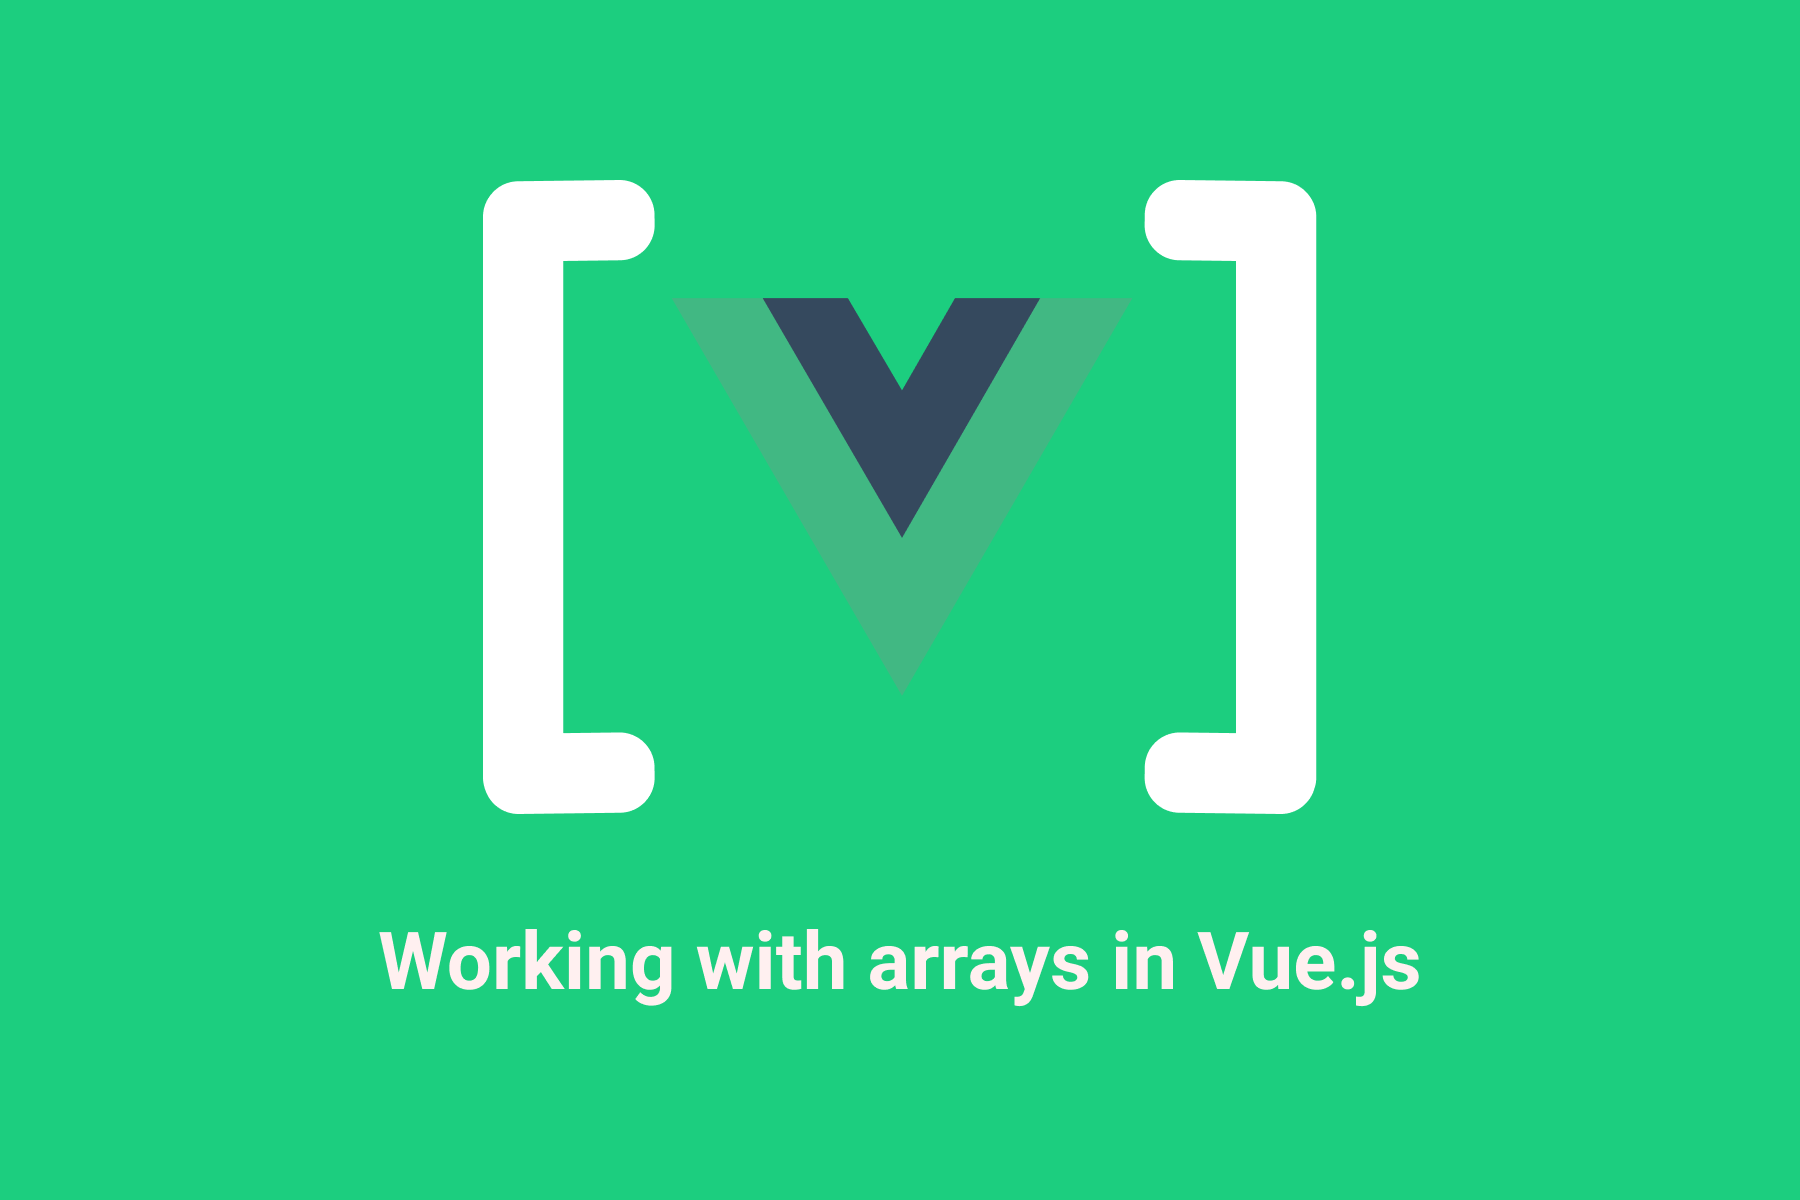
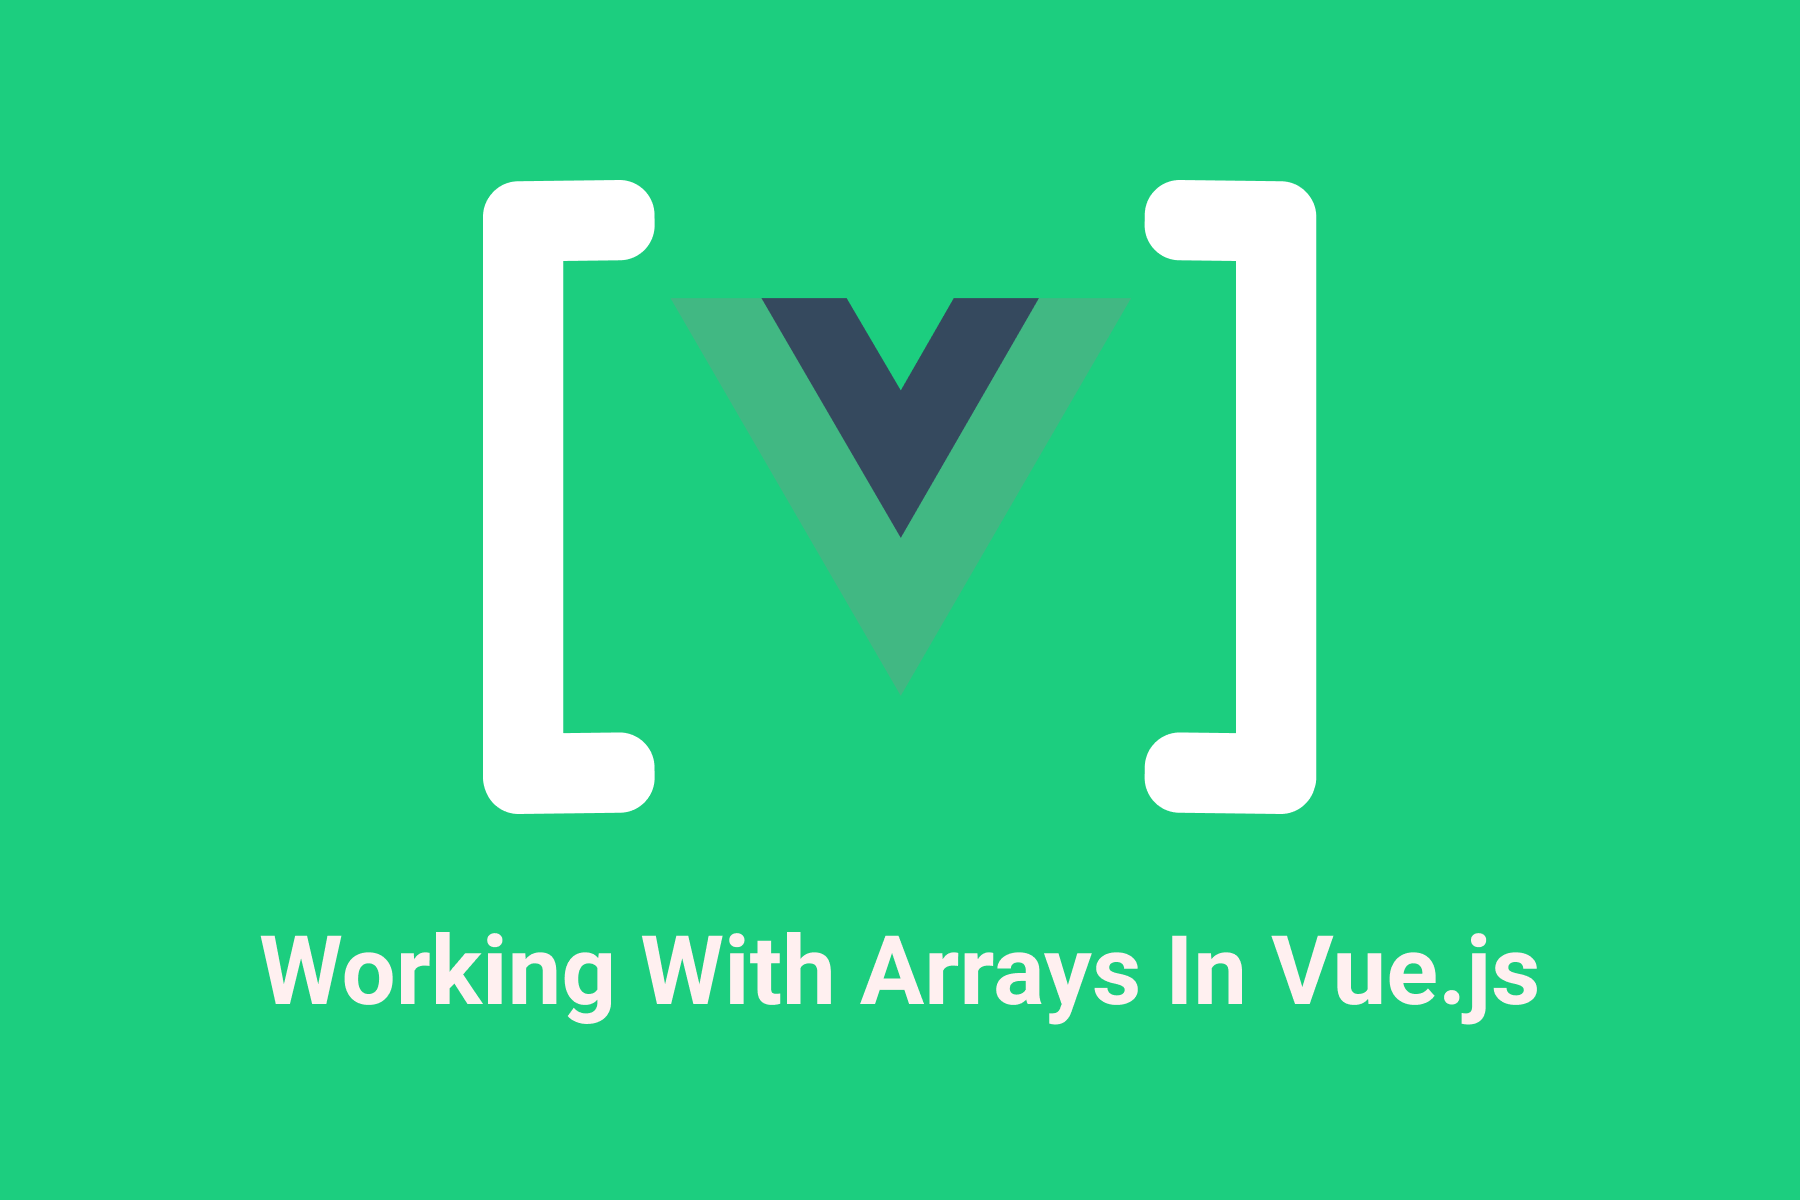
Added projects

Changed region(s): [[0.1244, 0.7708, 0.8711, 0.8633]]

diff --git a/pages/index.vue b/pages/index.vue
@@ -1,9 +1,9 @@
 <template>
-  <v-container>
+  <v-container id="container">
     <v-row>
       <h1 id="main-title">My Projects</h1>
     </v-row>
-    <v-row justify="center" align="center">
+    <v-row id="item-row" justify="center" align="center">
       <v-col v-for="item in items" :key="item.title" cols="12" sm="8" md="4">
         <v-hover>
           <template v-slot:default="{ hover }">
@@ -13,7 +13,11 @@
               <v-card-subtitle>{{ item.subtitle }}</v-card-subtitle>
               <v-fade-transition>
                 <v-overlay v-if="hover" absolute color="#750999">
-                  <v-btn>Read Article</v-btn>
+                  <v-btn v-if="item.type === 'Article'">Read Article</v-btn>
+                  <span v-else class="button-span">
+                    <v-btn class="button">Learn More</v-btn>
+                    <v-btn class="button">Visit Site</v-btn>
+                  </span>
                 </v-overlay>
               </v-fade-transition>
             </v-card>
@@ -30,21 +34,28 @@ export default {
     return {
       items: [
         {
-          title: 'Working with arrays in Vue.js',
+          title: 'Train That Brain',
+          type: 'Web App',
+          subtitle: 'Learning App For Autodidacts',
+          image: 'ttb-cover.png',
+        },
+        {
+          title: 'Working With Arrays In Vue.js',
           type: 'Article',
-          subtitle: 'Description',
+          subtitle: 'Medium Article',
           image: 'vue-array-article-cover.png',
+          buttonText: 'Read Article',
         },
         {
           title: 'Working With CSV Files',
           type: 'Article',
-          subtitle: 'Description',
+          subtitle: 'Medium Article',
           image: 'csv-article-cover.png',
         },
         {
           title: 'Netlify Environment Variables',
           type: 'Article',
-          subtitle: 'Description',
+          subtitle: 'Medium Article',
           image: 'environment-variables-article-cover.png',
         },
       ],
@@ -54,7 +65,12 @@ export default {
 </script>
 
 <style lang="scss" scoped>
+#container {
+  max-width: 90vw;
+}
 #item-card {
+  min-height: 300px;
+  border-radius: 10px;
   transition: all 300ms;
   &:hover {
     transform: translateY(-3px);
@@ -66,6 +82,22 @@ export default {
 }
 
 .card-title {
+  word-break: break-word;
   font-weight: 600;
+  @media screen and (max-width: 1500px) {
+    font-size: 18px;
+  }
+  @media screen and (max-width: 1200px) {
+    font-size: 16px;
+  }
+}
+
+.button-span {
+  display: flex;
+  flex-direction: column;
+}
+
+.button {
+  margin: 10px;
 }
 </style>

diff --git a/layouts/default.vue b/layouts/default.vue
@@ -1,6 +1,13 @@
 <template>
   <v-app dark>
-    <v-navigation-drawer mini-variant fixed app floating color="primary">
+    <v-navigation-drawer
+      mini-variant
+      fixed
+      app
+      floating
+      color="primary"
+      mini-variant-width="80"
+    >
       <v-list>
         <v-tooltip
           v-for="(item, i) in items"
@@ -18,7 +25,7 @@
               v-on="on"
             >
               <v-list-item-action class="list-item-action">
-                <v-icon class="icon">{{ item.icon }}</v-icon>
+                <v-icon class="icon" size="30">{{ item.icon }}</v-icon>
               </v-list-item-action>
               <v-list-item-content>
                 <v-list-item-title v-text="item.title" />
@@ -46,7 +53,7 @@
                 v-on="on"
               >
                 <v-list-item-action class="list-item-action">
-                  <v-icon class="icon">{{ social.icon }}</v-icon>
+                  <v-icon class="icon" size="25">{{ social.icon }}</v-icon>
                 </v-list-item-action>
                 <v-list-item-content>
                   <v-list-item-title v-text="social.title" />
@@ -58,7 +65,7 @@
         </v-list>
       </template>
     </v-navigation-drawer>
-    <v-main class="secondary">
+    <v-main class="secondary" id="main">
       <v-container>
         <nuxt />
       </v-container>
@@ -132,4 +139,8 @@ export default {
 #social-list {
   bottom: 20px;
 }
+
+// #main {
+//   width: 90%;
+// }
 </style>
